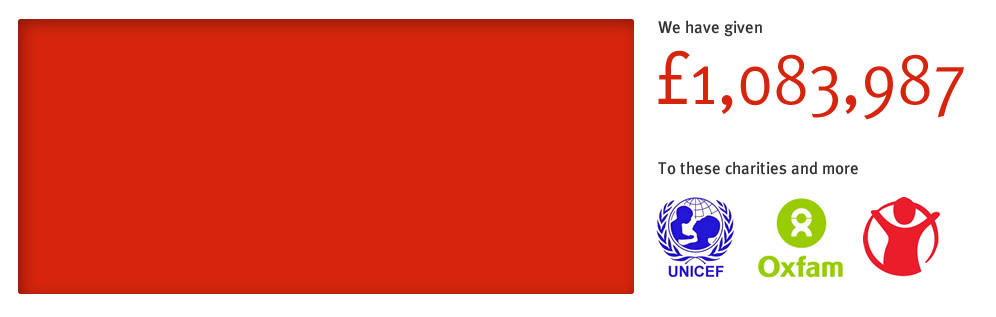
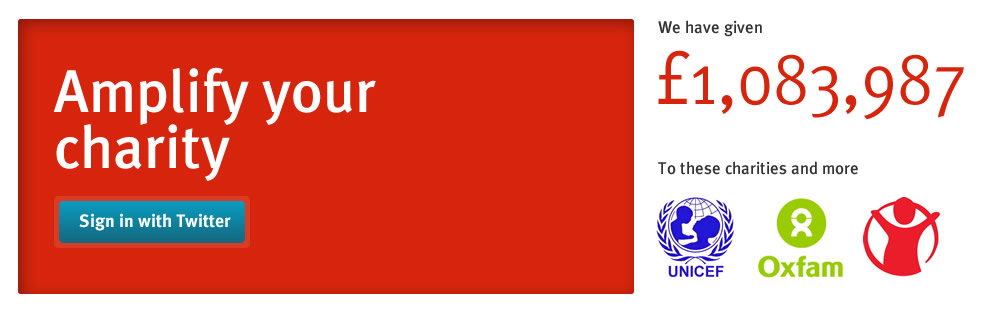
Last-minute fixes

Changed region(s): [[0.0311, 0.1987, 0.3735, 0.3975], [0.0311, 0.5962, 0.249, 0.795], [0.0311, 0.3975, 0.249, 0.5678]]

diff --git a/i/css/master.css b/i/css/master.css
@@ -414,13 +414,15 @@ h5 {
 }
 
 .donate_page #content,
-.ok_page #content {
+.ok_page #content,
+.challenge_page #content {
 	background-color: #ffffff;
 	color: #333333;
 }
 
 .donate_page #content *,
-.ok_page #content * {
+.ok_page #content *,
+.challenge_page #content * {
 	margin: 8px 0 8px 16px;
 }
 
@@ -450,7 +452,8 @@ border: none;}
       clip: rect(1px, 1px, 1px, 1px);
       }
 	  
-	  #form li { background:#fff; margin-bottom: 40px; list-style-position: inside; -moz-box-shadow: 1px 1px 4px #000; -webkit-box-shadow: 1px 1px 4px #000;   box-shadow: 1px 1px 4px #000;-moz-border-radius: 5px;border-radius: 5px; padding:1em;}
+	  #form li { background:#fff; margin-bottom: 40px; list-style-position: inside; -moz-box-shadow: 1px 1px 4px #000; -webkit-box-shadow: 1px 1px 4px #000;   box-shadow: 1px 1px 4px #000;-moz-border-radius: 5px;border-radius: 5px; padding:1em;
+	  width: 80%;}
 	   li h2 { display: inline }
       li li { clear: none }
       li ol,

diff --git a/controllers/charitycontroller.php b/controllers/charitycontroller.php
@@ -19,7 +19,7 @@ class CharityController extends Controller
         );
     }
     
-    function challenge($charity_id) {
+    function challenge($charity_id=0) {
         $user = $this->logged_in_user();
         
         $charity = Charity::find_by_id($charity_id);
